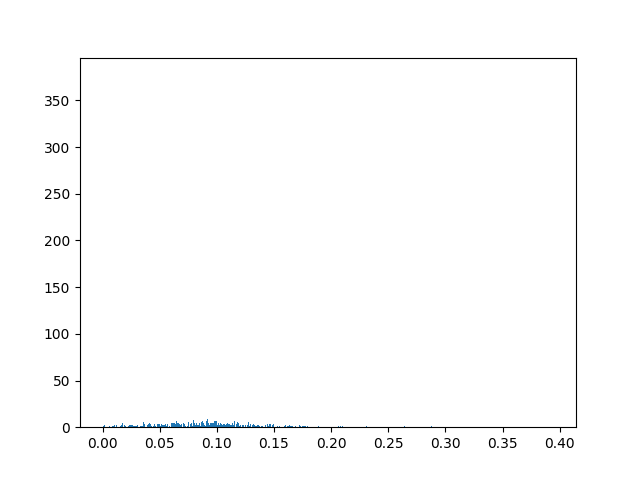
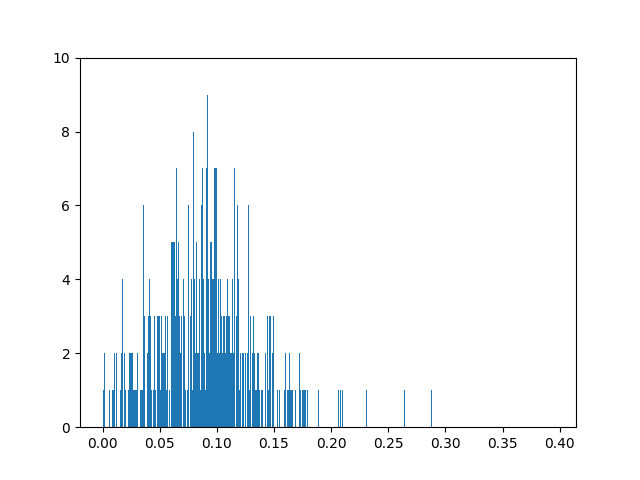
histogramme limite y

diff --git a/src/histogramme.py b/src/histogramme.py
@@ -45,13 +45,14 @@ import matplotlib.pyplot as plt
 
 def histogramme(fileName) : 
 	DR = [] # distances relatives 
-	with open(fileName+".CSV") as csvfile:	#modif chemin d'acces
+	with open(fileName+".CSV") as csvfile:
 		reader = csv.reader(csvfile)
 		for row in reader:
 			dr = row[0]
 			DR.append(float(dr))
+	plt.ylim(0, 10)
 	h = plt.hist(DR,bins=len(DR))
-	plt.savefig(fileName+".PNG")	#modif chemin de sauvegarde
+	plt.savefig(fileName+".PNG")
 	plt.close()
 	csvfile.close
 
@@ -63,6 +64,6 @@ def main() :
 	
 	fileName = sys.argv[1]
 	histogramme(fileName)
-	print("l'histogramme est dans le dossier/fichier : histogramme/"+ fileName+".PNG")
+	print("l'histogramme est dans le fichier " + fileName+".PNG")
 
 main()
